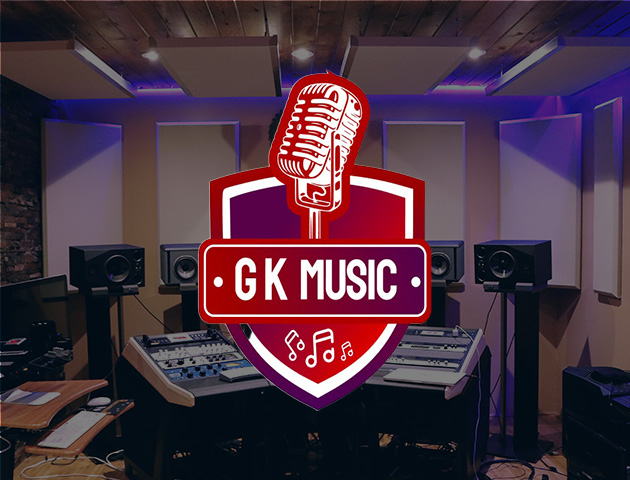
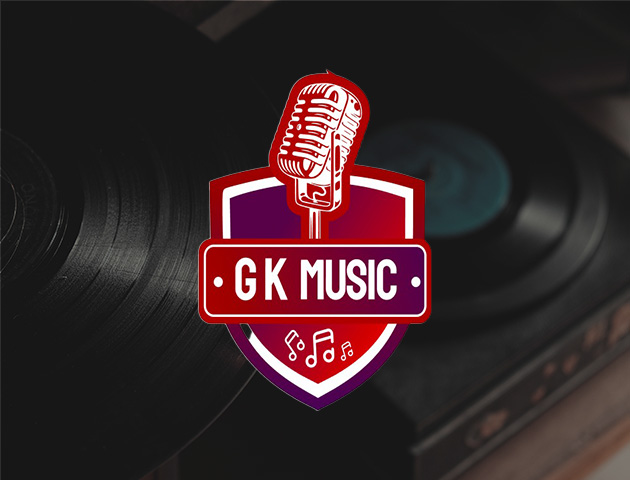
app component updated

diff --git a/src/app/default/home/home.component.html b/src/app/default/home/home.component.html
@@ -24,11 +24,11 @@
                 font-family: 'Segoe UI', Tahoma, Geneva, Verdana, sans-serif;
               "
             >
-              At GK Techno Solutions, we are more than just a parent company; we
-              are the driving force behind a diverse portfolio of innovative
-              ventures. With a commitment to excellence, we bring you a blend of
-              technology, music, e-commerce, and hospitality through our
-              subsidiaries - GK Music, GK Dukkan, and Spring Hotel.
+              At GK Techno Solutions, we are the driving force behind a diverse
+              portfolio of innovative ventures. With a commitment to excellence,
+              we bring you a blend of technology, music, e-commerce, and
+              hospitality through our subsidiaries - GK Music, GK Dukkan, and
+              Spring Hotel.
             </p>
           </div>
 
@@ -40,58 +40,65 @@
   </div>
 </div>
 
-<hr />
-
 <div
-  class="d-flex"
-  style="align-items: center; text-align: center; justify-content: center"
+  class="service-container"
+  [class.scrolled]="scrollPosition > 0"
+  [style.background]="'rgba(255, 255, 255, ' + getBackgroundOpacity() + ')'"
 >
-  <h1>Our Services</h1>
-</div>
-<hr />
-<br />
-<div class="container">
-  <div class="row">
-    <div class="col-md-6">
-      <ngb-carousel (slid)="doneSlide($event)" [interval]="3000">
-        <ng-template ngbSlide>
-          <div class="picsum-img-wrapper">
-            <img
-              src="/assets/images/gkmusic.jpg"
-              alt="Random first slide"
-              class="img-fluid"
-            />
-          </div>
-        </ng-template>
-        <ng-template ngbSlide>
-          <div class="picsum-img-wrapper">
-            <img
-              src="/assets/images/gkdukaan.jpg"
-              alt="Random second slide"
-              class="img-fluid"
-            />
-          </div>
-        </ng-template>
-        <ng-template ngbSlide>
-          <div class="picsum-img-wrapper">
-            <img
-              src="/assets/images/springs.jpg"
-              alt="Random third slide"
-              class="img-fluid"
-            />
-          </div>
-        </ng-template>
-      </ngb-carousel>
-    </div>
-    <div class="col-md-6">
-      <div class="info-container">
-        <h1>{{ carouselInfo.title }}</h1>
-        <h5>{{ carouselInfo.text }}</h5>
+  <hr />
+  <div
+    class="d-flex"
+    style="align-items: center; text-align: center; justify-content: center"
+  >
+    <h1>Our Services</h1>
+  </div>
+  <hr />
+  <br />
+  <div class="container">
+    <div class="row">
+      <div class="col-md-6">
+        <ngb-carousel (slid)="doneSlide($event)" [interval]="3000">
+          <ng-template ngbSlide>
+            <div class="picsum-img-wrapper">
+              <img
+                src="/assets/images/gkmusic.jpg"
+                alt="Random first slide"
+                class="img-fluid"
+              />
+            </div>
+          </ng-template>
+          <ng-template ngbSlide>
+            <div class="picsum-img-wrapper">
+              <img
+                src="/assets/images/gkdukaan.jpg"
+                alt="Random second slide"
+                class="img-fluid"
+              />
+            </div>
+          </ng-template>
+          <ng-template ngbSlide>
+            <div class="picsum-img-wrapper">
+              <img
+                src="/assets/images/springs.jpg"
+                alt="Random third slide"
+                class="img-fluid"
+              />
+            </div>
+          </ng-template>
+        </ngb-carousel>
       </div>
-      <div>
-        <button [routerLink]="['/services']"><span>Explore More</span></button>
+      <div class="col-md-6">
+        <div class="info-container">
+          <h1>{{ carouselInfo.title }}</h1>
+          <h5>{{ carouselInfo.text }}</h5>
+        </div>
+        <div>
+          <button [routerLink]="['/services']">
+            <span>Explore More</span>
+          </button>
+        </div>
       </div>
     </div>
   </div>
+  <hr />
 </div>
-<hr />

diff --git a/src/app/default/home/home.component.ts b/src/app/default/home/home.component.ts
@@ -1,4 +1,4 @@
-import { Component } from '@angular/core';
+import { Component, HostListener } from '@angular/core';
 
 @Component({
   selector: 'app-home',
@@ -6,6 +6,8 @@ import { Component } from '@angular/core';
   styleUrl: './home.component.scss',
 })
 export class HomeComponent {
+  isScrolled: boolean = false;
+  scrollPosition: number = 0;
   carouselInfo = {
     title: 'Gk Music',
     text: 'Your go-to for top-notch music production and audio services, turning your musical vision into reality.',
@@ -25,5 +27,15 @@ export class HomeComponent {
       this.carouselInfo.title = 'Spring Restaurant';
       this.carouselInfo.text = 'An hotel in goa';
     }
+  }
+
+  @HostListener('window:scroll', [])
+  onWindowScroll() {
+    this.scrollPosition = window.scrollY;
+  }
+
+  getBackgroundOpacity() {
+    // Adjust this calculation based on your design preference
+    return Math.min(this.scrollPosition / 2000, 1); // Change 200 and 0.8 to suitable values
   }
 }

diff --git a/src/app/default/home/home.component.scss b/src/app/default/home/home.component.scss
@@ -1,13 +1,10 @@
 .background-container {
-  background-image: url("/assets/images/bg.jpg"); /* Adjust the path accordingly */
   background-size: cover;
-  background-position: center;
   background-repeat: no-repeat;
-  // background-attachment: fixed; /* Add this line for a fixed background */
   height: 100vh; /* Adjust the height as needed */
   display: flex;
   flex-direction: column;
-  align-items: center;
+
   justify-content: center;
   text-align: center;
 }
@@ -70,7 +67,6 @@ button {
   letter-spacing: 0.05rem;
   font-weight: 700;
   font-size: 17px;
-  // border-radius: 500px;
   overflow: hidden;
   background: #000752;
   color: rgb(0, 0, 0);
@@ -107,4 +103,12 @@ button::before {
 
 button:hover::before {
   transform: translate3d(100%, 0, 0);
+}
+.info-container {
+  justify-content: left;
+  text-align: left;
+}
+.service-container {
+  transition: background 0.3s ease; /* Adjust the transition duration as needed */
+  /* Your existing styles */
 }

diff --git a/src/app/app.component.scss b/src/app/app.component.scss
@@ -216,12 +216,30 @@ h6 {
     left: 100%;
   }
 }
-.nav-item a {
-  color: rgb(0, 0, 0);
-}
-.nav-item a {
-  color: rgb(0, 0, 0);
-}
+
 .navbar-brand {
   color: rgb(0, 0, 0);
+}
+/* app.component.css */
+
+.background-container {
+  background-image: url("/assets/images/bg.jpg");
+  background-size: cover; /* Ensure the background covers the entire container */
+  background-position: center; /* Center the background image */
+  background-attachment: fixed; /* Make the background fixed */
+  min-height: 85vh; /* Ensure the container takes at least the full height of the viewport */
+  display: flex;
+  flex-direction: column;
+  align-items: center;
+  justify-content: center;
+  text-align: center;
+}
+router-outlet {
+  flex: 1;
+}
+
+.router-link-active {
+  color: #000752 !important;
+  font-weight: 600;
+  font-size: 18px !important;
 }

diff --git a/src/app/app.component.ts b/src/app/app.component.ts
@@ -4,11 +4,18 @@ import { RouterOutlet } from '@angular/router';
 import { NgbModule } from '@ng-bootstrap/ng-bootstrap';
 import { DefaultModule } from './default/default.module';
 import { RouterLink } from '@angular/router';
-
+import { RouterModule } from '@angular/router';
 @Component({
   selector: 'app-root',
   standalone: true,
-  imports: [CommonModule, RouterOutlet, NgbModule, DefaultModule, RouterLink],
+  imports: [
+    CommonModule,
+    RouterOutlet,
+    NgbModule,
+    DefaultModule,
+    RouterLink,
+    RouterModule,
+  ],
   templateUrl: './app.component.html',
   styleUrl: './app.component.scss',
 })

diff --git a/src/app/app.component.html b/src/app/app.component.html
@@ -16,7 +16,7 @@
       <ul class="navbar-nav" style="margin: 0 auto">
         <li class="nav-item">
           <a
-            class="nav-link active"
+            class="nav-link"
             aria-current="page"
             [routerLink]="['/home']"
             routerLinkActive="router-link-active"
@@ -52,7 +52,7 @@
   </div>
 </nav>
 
-<div>
+<div class="background-container">
   <router-outlet></router-outlet>
 </div>
 

diff --git a/src/app/default/services/services.component.html b/src/app/default/services/services.component.html
@@ -18,3 +18,5 @@
     </div>
   </div>
 </div>
+<br />
+<br />
